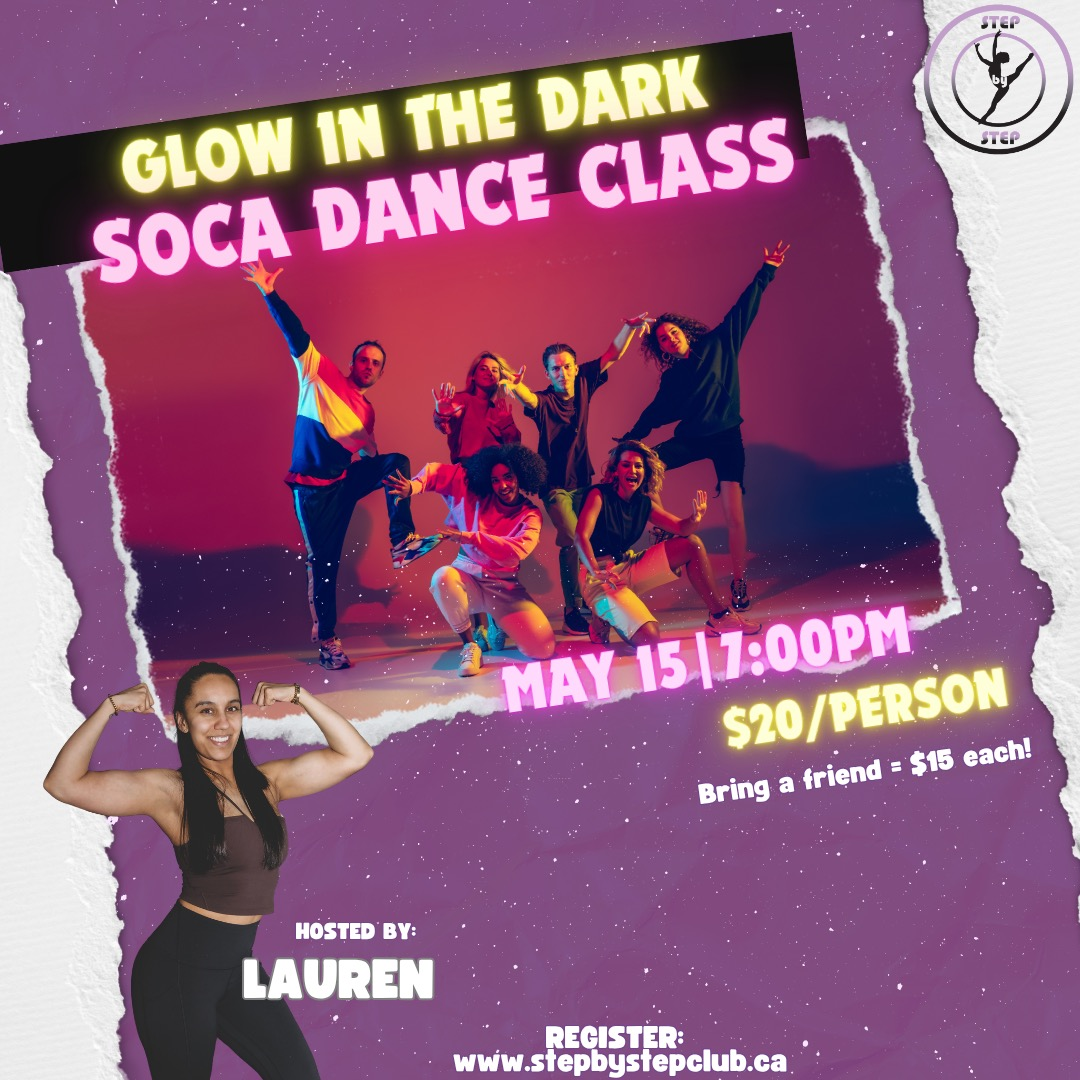
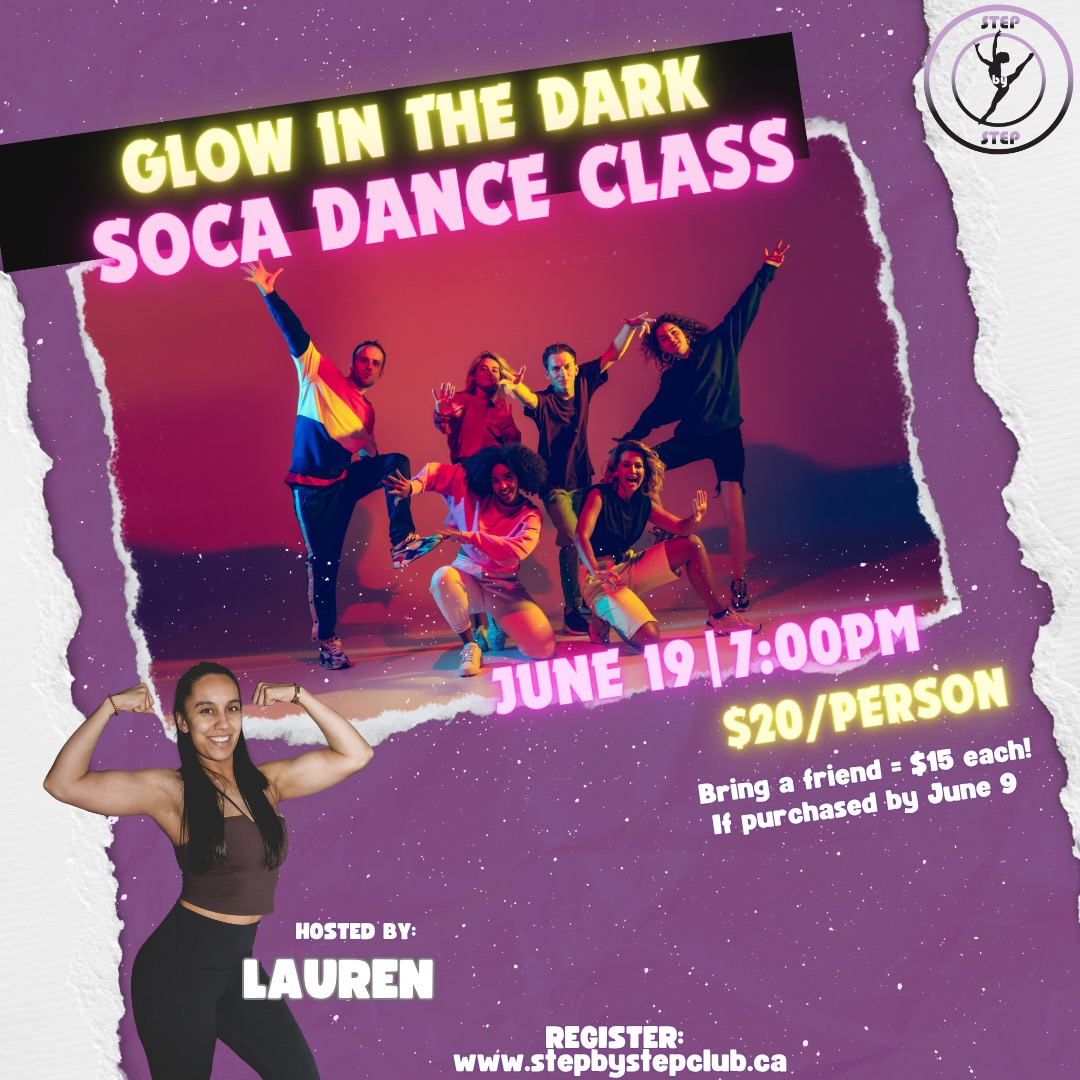
add special event image and link

Changed region(s): [[0.4583, 0.55, 0.8556, 0.6722], [0.6417, 0.7028, 0.9472, 0.7944]]

diff --git a/client/src/pages/SpecialEvents/SpecialEvents.js b/client/src/pages/SpecialEvents/SpecialEvents.js
@@ -46,8 +46,8 @@ const SpecialEvents = () => {
   };
   const linkToBuyTickets9 = () => {
     openRegistrationLink(
-      "    https://www.wellnessliving.com/rs/catalog-payment.html?k_id=956837&sid_purchase_item=enrollment&id_sale=3&k_business=651877",
-      "strollerfitness",
+      "    https://www.wellnessliving.com/rs/event/step_by_step_club?k_business=651877&k_class_tab=66373&uid=0&id_class_tab=2",
+      "soca",
     );
   };
 